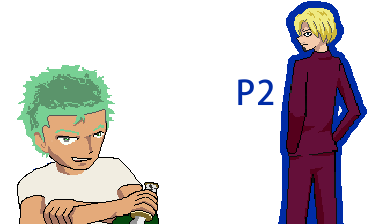
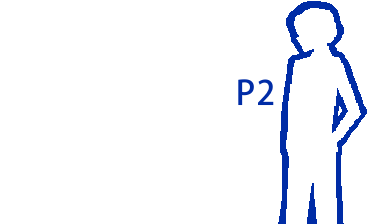
end screen

Changed region(s): [[0.0312, 0.2812, 0.4375, 1.0], [0.7188, 0.0312, 0.9375, 1.0]]

diff --git a/src/game_state/EndState.js b/src/game_state/EndState.js
@@ -7,8 +7,12 @@ export class EndState extends GameState {
     }
 
     draw() {
+        if (this.game.fighter1.health == 0) {
+            this.context.drawImage(document.querySelector(`img[alt='${this.game.fighter2.name}_splash']`), 0, 0)
+        } else {
+            this.context.drawImage(document.querySelector(`img[alt='${this.game.fighter1.name}_splash']`), 0, 0)
+        }
         this.context.drawImage(document.querySelector(`img[alt='game_over']`), 0, 0)
-
     }
 
     checkTransition() {
